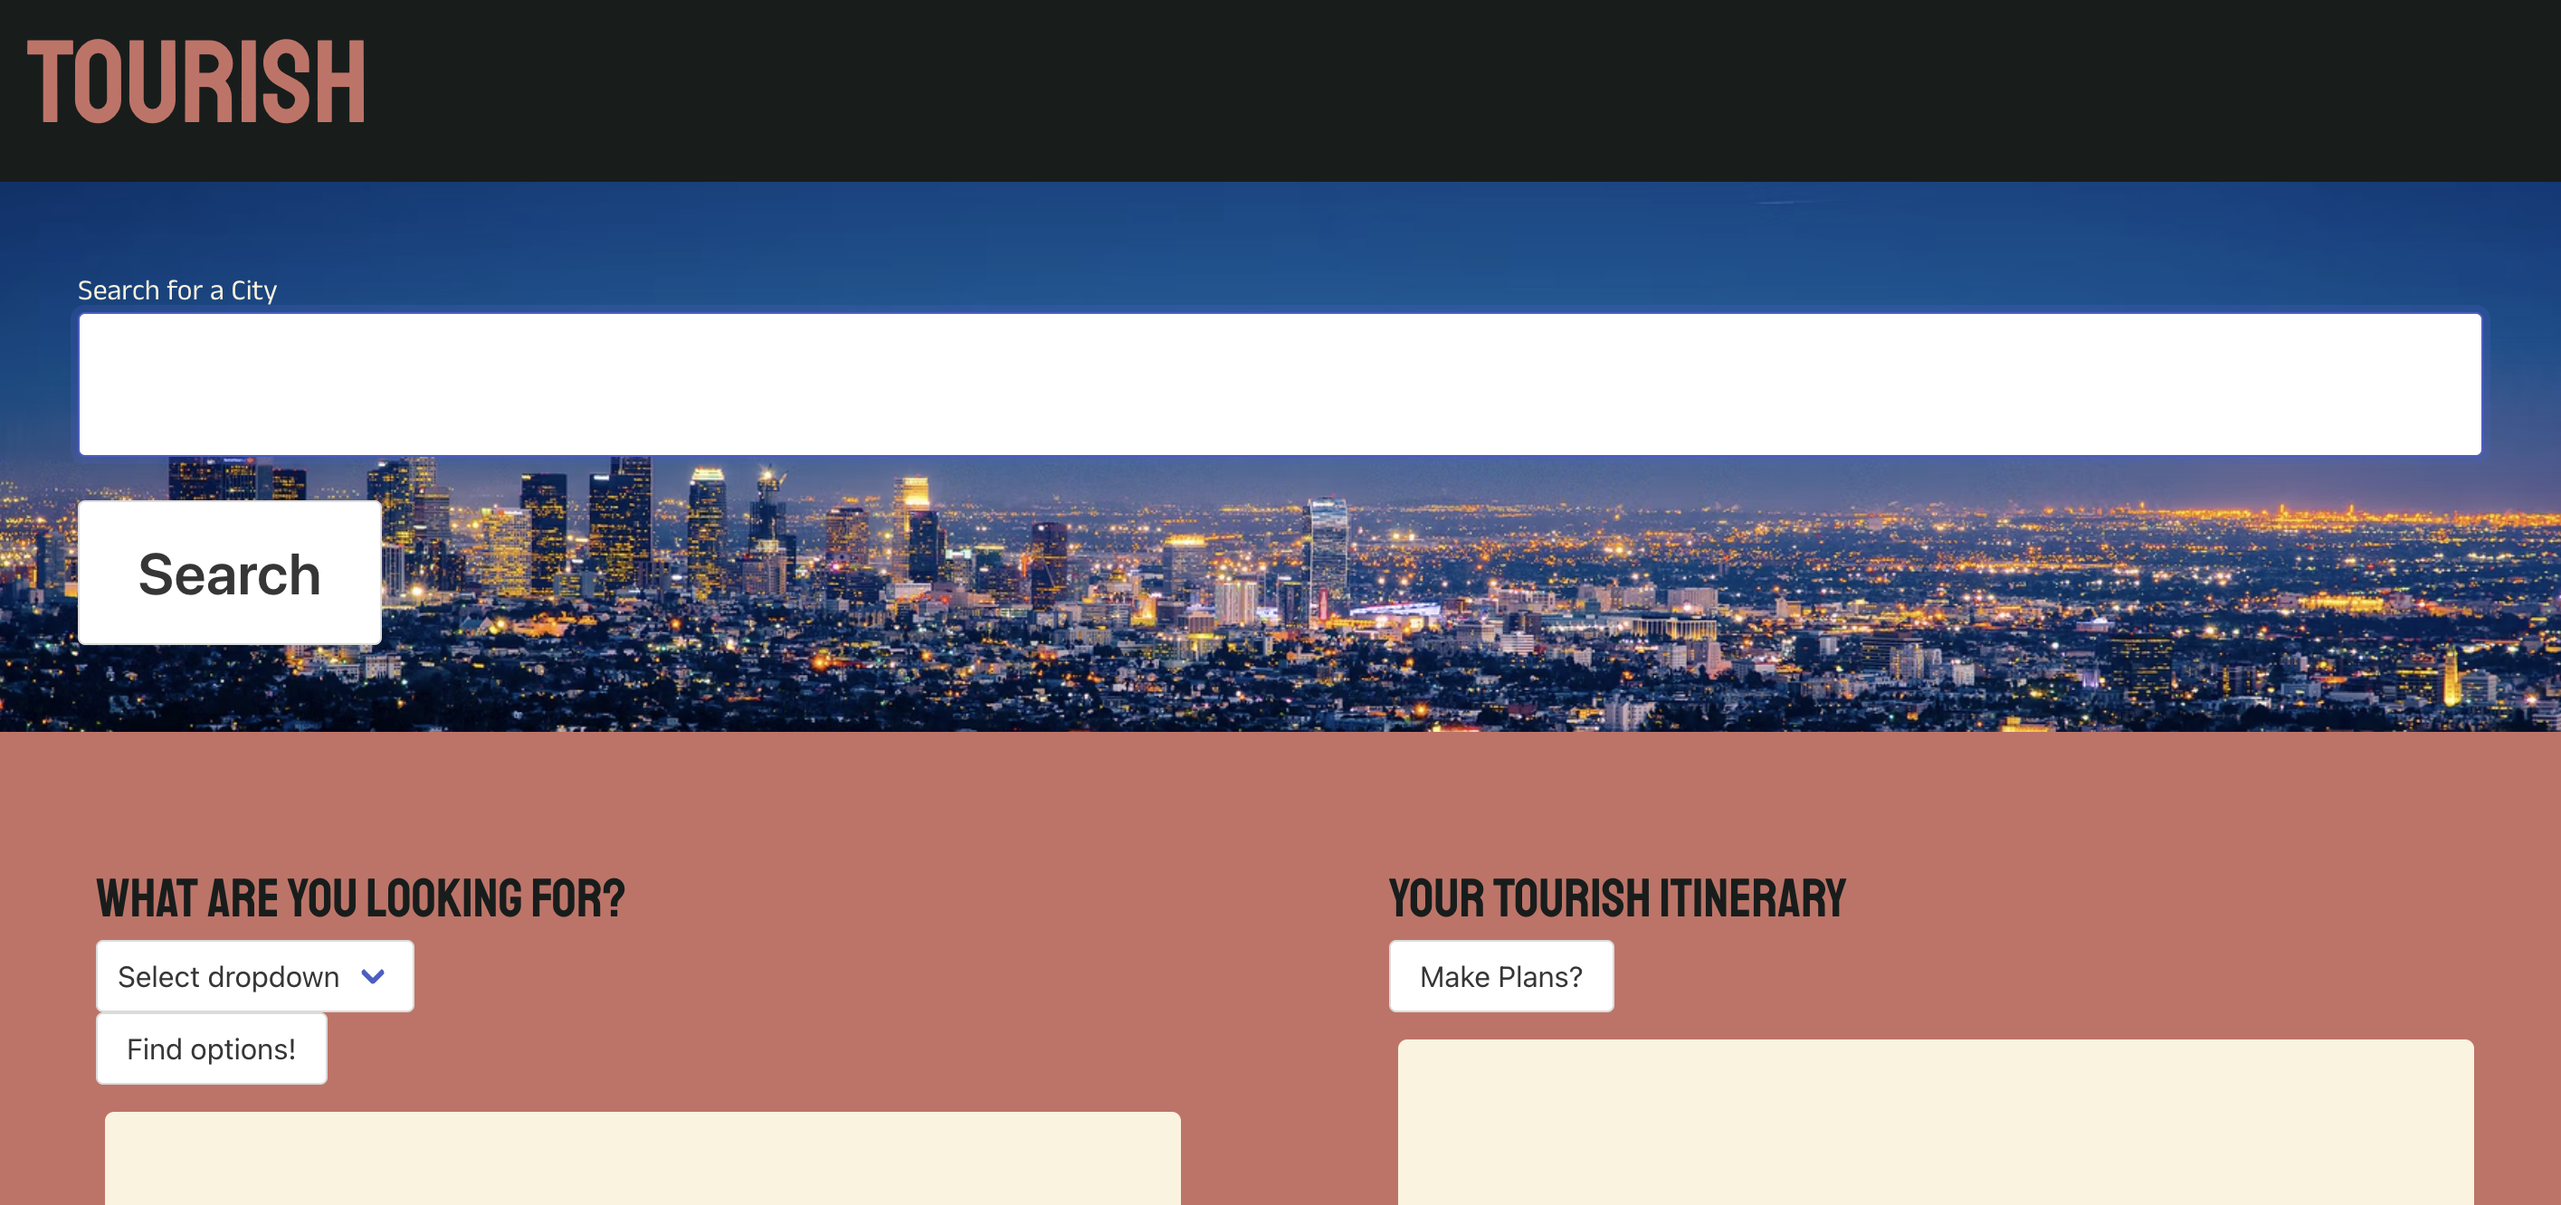
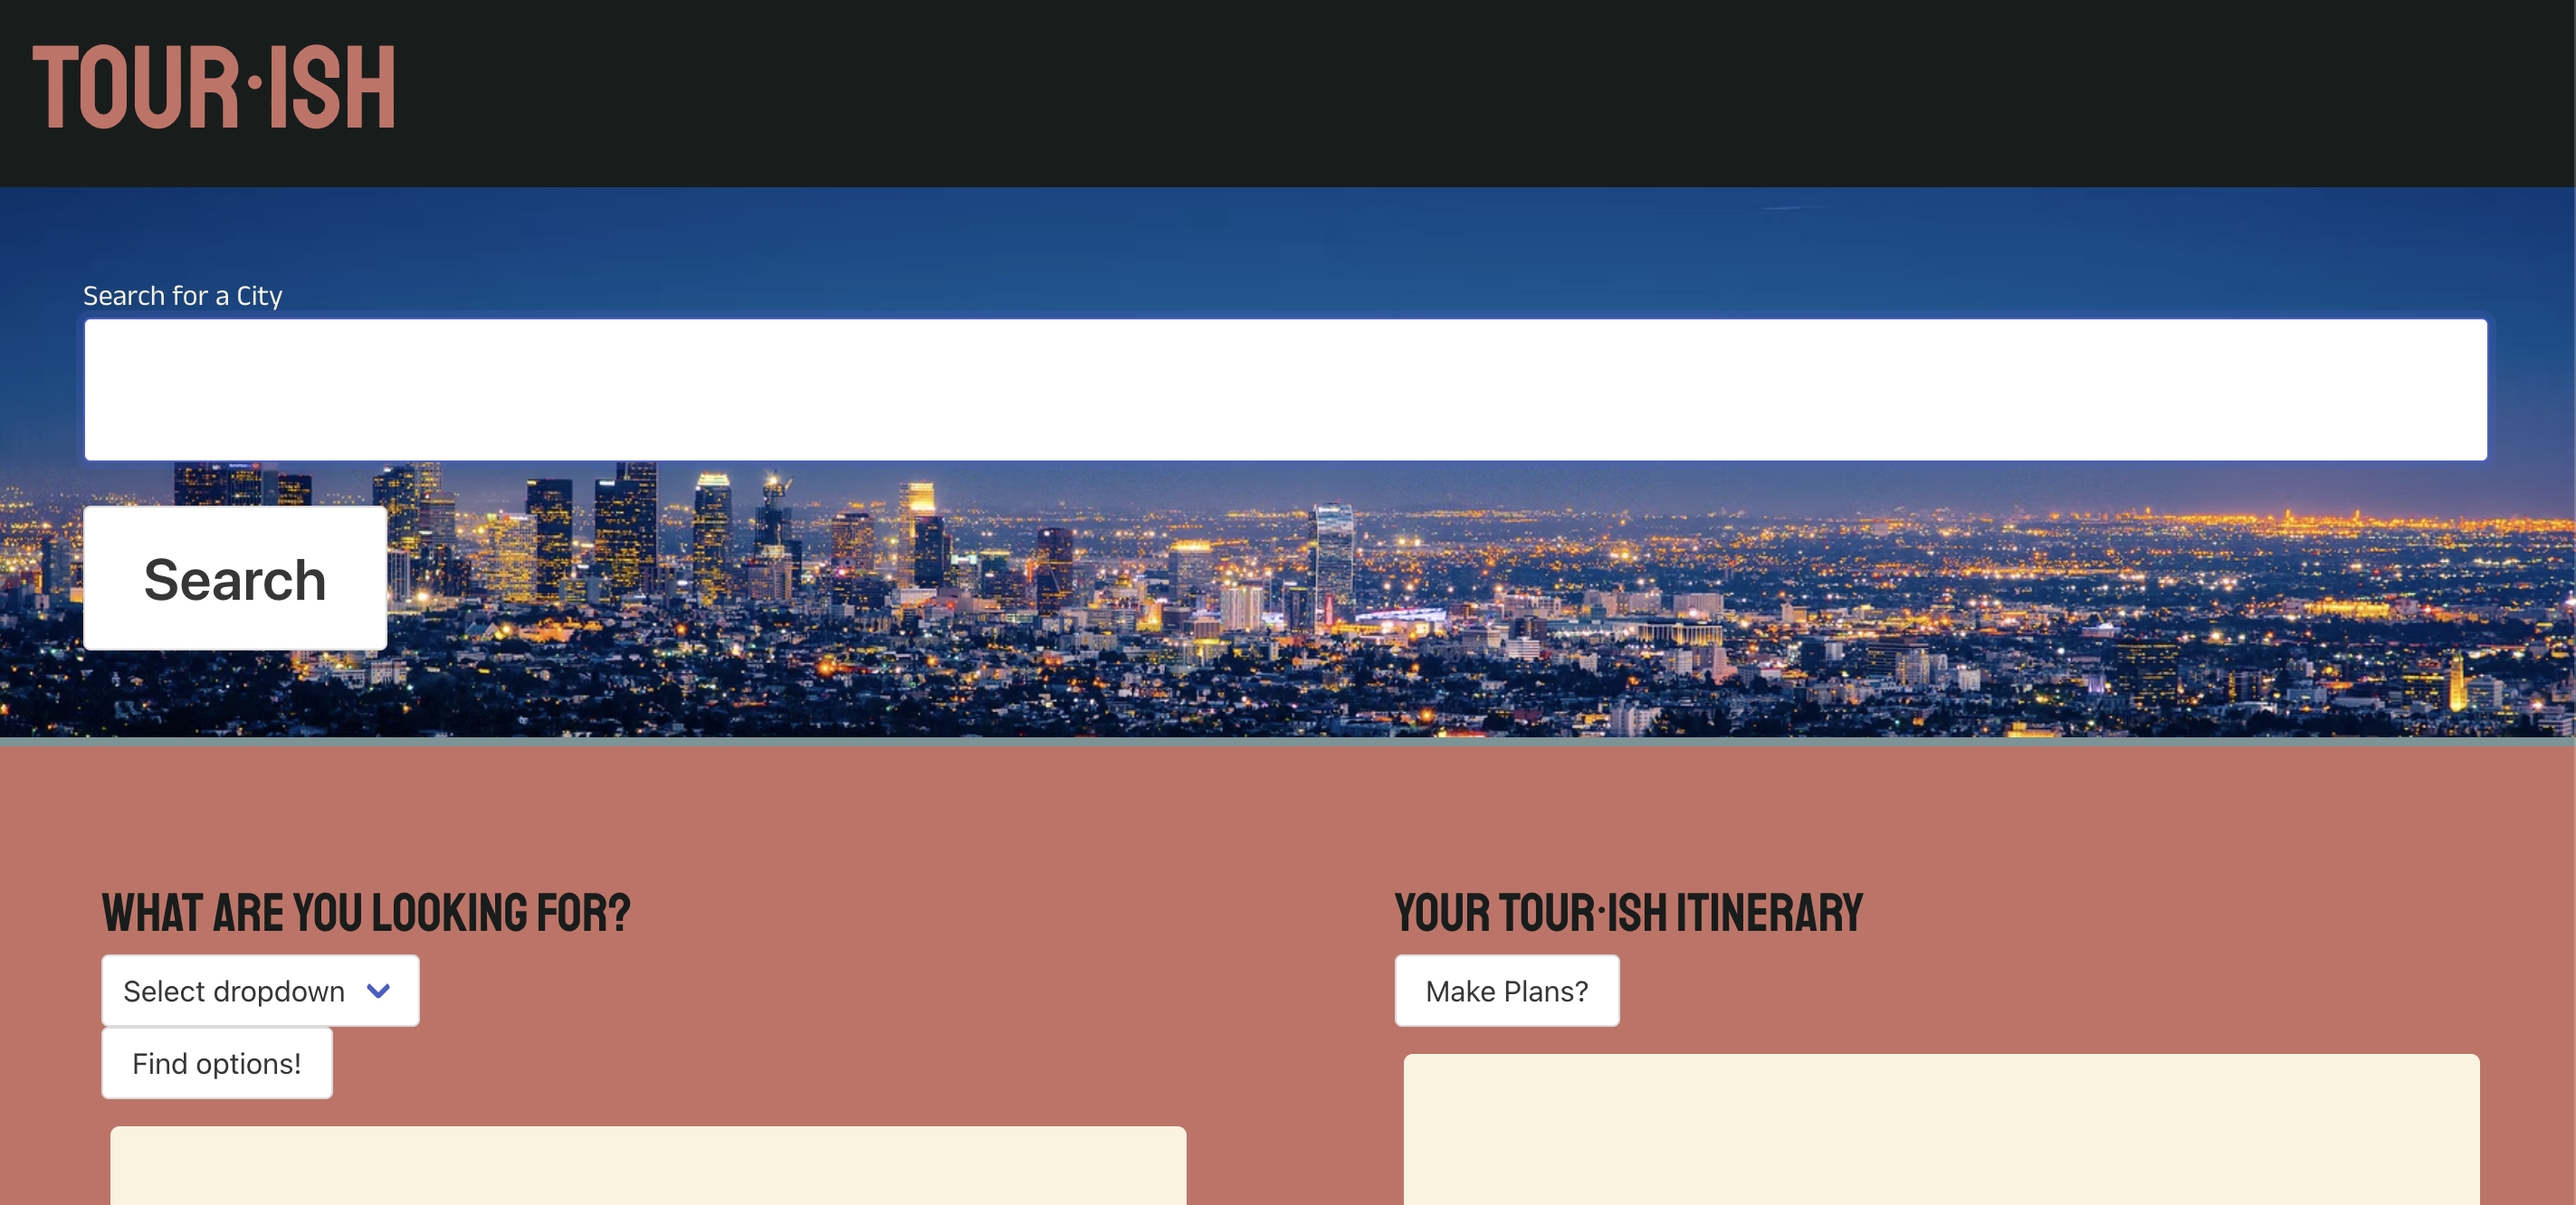
last minute css and html

diff --git a/assets/css/style.css b/assets/css/style.css
@@ -21,7 +21,7 @@ h1 {
 }
 
 body {
-    background-color: var(--color-two);
+    background-color: var(--color-four);
     margin: 0;
     padding: 0;
     min-height: 100vh;
@@ -40,12 +40,20 @@ h3 {
     color: var(--color-one);
 }
 
-li {
-    color: var(--color-two);
+/* li {
+    /* color: var(--color-two);
     background-color: var(--color-three);
     border-radius: 5px;
     border: solid 3px;
     border-color: var(--color-two);
+} */
+
+textarea {
+    background-color: var(--color-one);
+    border-color: var(--color-three);
+    font-size: 23px;
+    font-family: 'Staatliches';
+    color: var(--color-two);
 }
 
 .hero {
@@ -60,10 +68,35 @@ li {
     background-color: var(--color-four);
     padding: 10px;
     min-height: 100vh;
-    border-top: solid var(--color-three) 5px;
+    /* border-top: solid var(--color-three) 5px; */
 }
 
+.plans {
+    height: 75px;
+    width: 100%;
+    padding: 7px;
+}
 
+.card {
+    height: 200px;
+    width: 125px;
+    background-color: var(--color-two);
+    color: var(--color-one);
+    margin: 10px;
+    display: flex;
+    flex-direction: column;
+    align-items: center;
+}
+
+#fiveday-container {
+    display: flex;
+    justify-content: center;
+    align-content: space-around center;
+}
+
+#forecast {
+    text-align: center;
+}
 
 #poi-list-container {
     column-count: 2;
@@ -80,7 +113,7 @@ li {
 }
 
 #poi-list-container p {
-    font-size: 18px;
+    font-size: 23px;
     color: var(--color-two);
     padding: 11px;
     font-family: 'Staatliches';
@@ -97,6 +130,8 @@ li {
     min-height: 500px;
     border-radius: 5px;
 }
+
+
 
 
 

diff --git a/index.html b/index.html
@@ -28,14 +28,15 @@
                 <input class="input title " id="city" type="text" autofocus="true" class="form-input" />
                 <button class= "btn button title" type="submit">Search</button>
         </form>
+      
+    </div>
+    <!-- HERO -->
+         
         <div id="five-day-forecast">
             <h2 class="forecast-cards" id="forecast"></h2>
             <div id="fiveday-container"></div>
         </div>
-    </div>
-    <!-- HERO -->
-
-    <div class="columns">
+    <div class="columns">  
         <div id="left-col" class="column is-half">
             <div id="weather-container" class="">
                 <div id="five-day-container">
@@ -95,6 +96,12 @@
                 <button class="button" href="#todo-form-modal" rel="modal:open" id="create-toDo" data-target="#toDo-form-modal">Make
                     Plans?</button>
                 <ul id="todoText-Container">
+                    <li><textarea class="plans" ></textarea></li>
+                    <li><textarea class="plans"></textarea></li>
+                    <li ><textarea class="plans"></textarea></li>
+                    <li><textarea class="plans"></textarea></li>
+                    <li ><textarea class="plans"></textarea></li>
+                    <li ><textarea class="plans"></textarea></li>
                 </ul>
             </div>
         </div>
